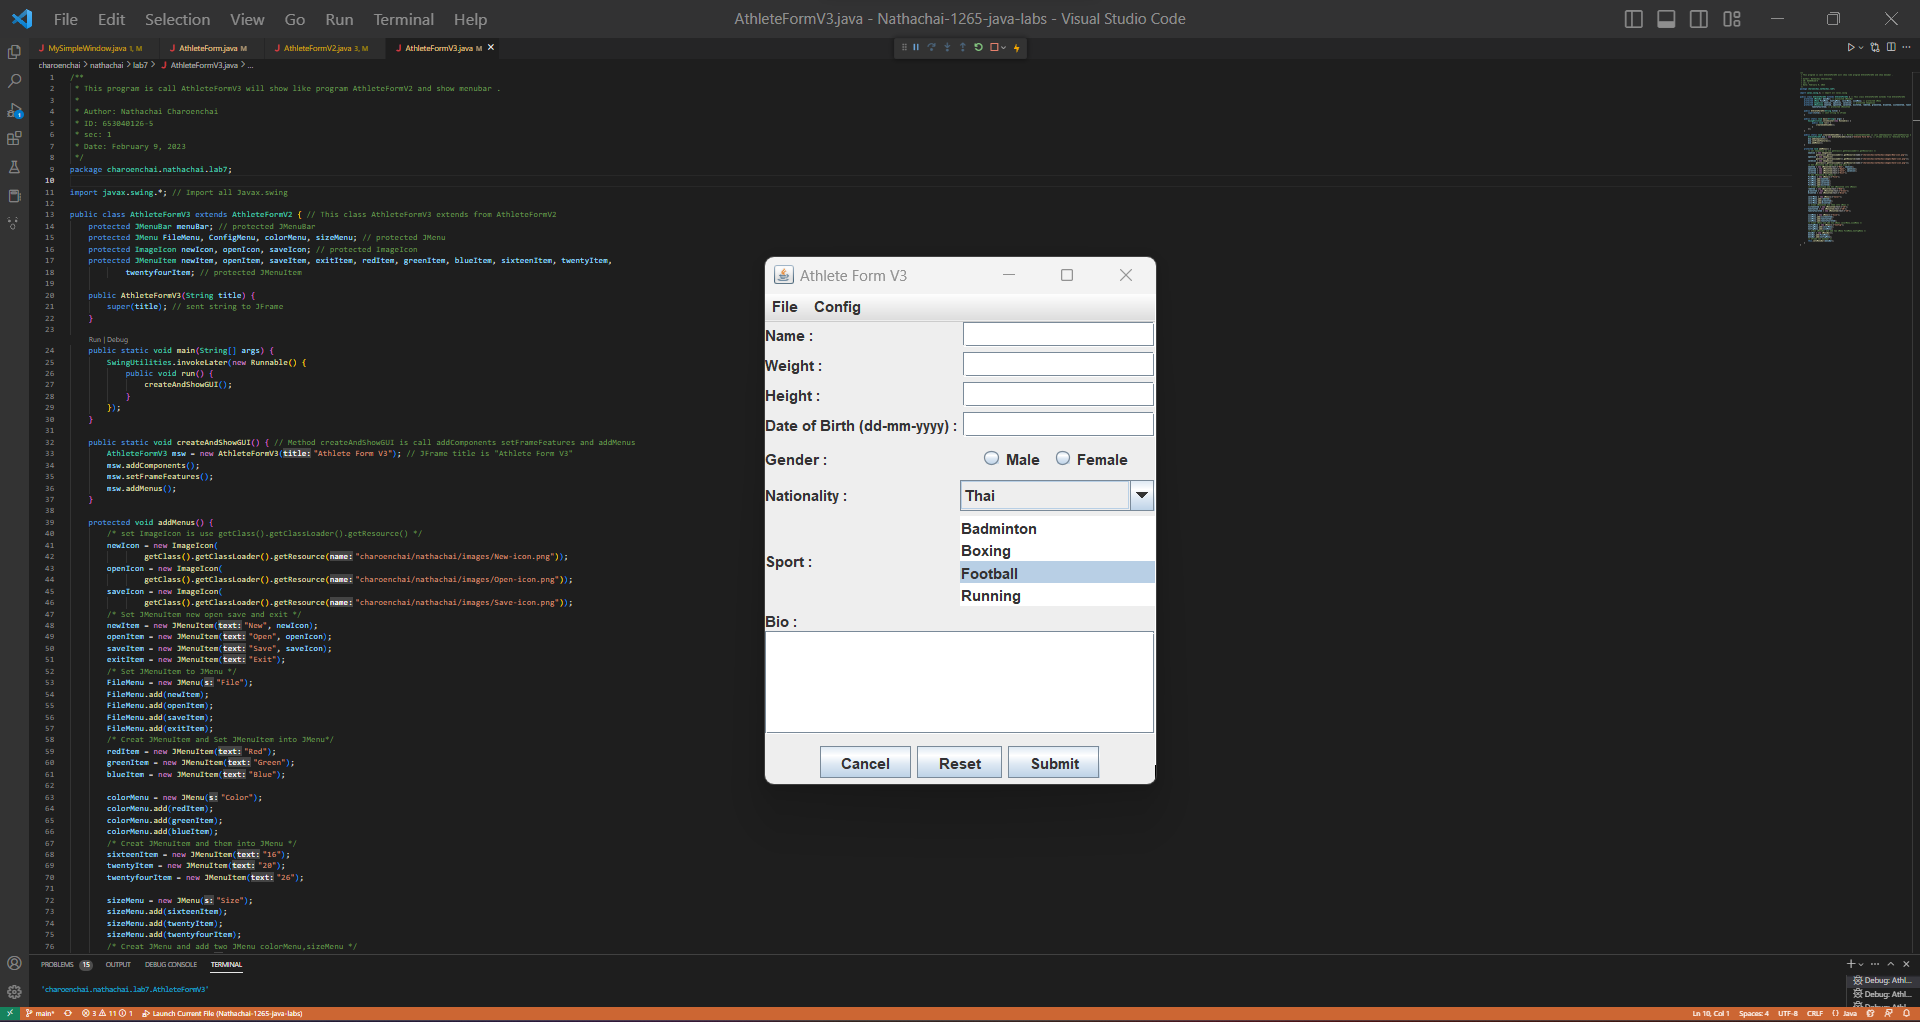
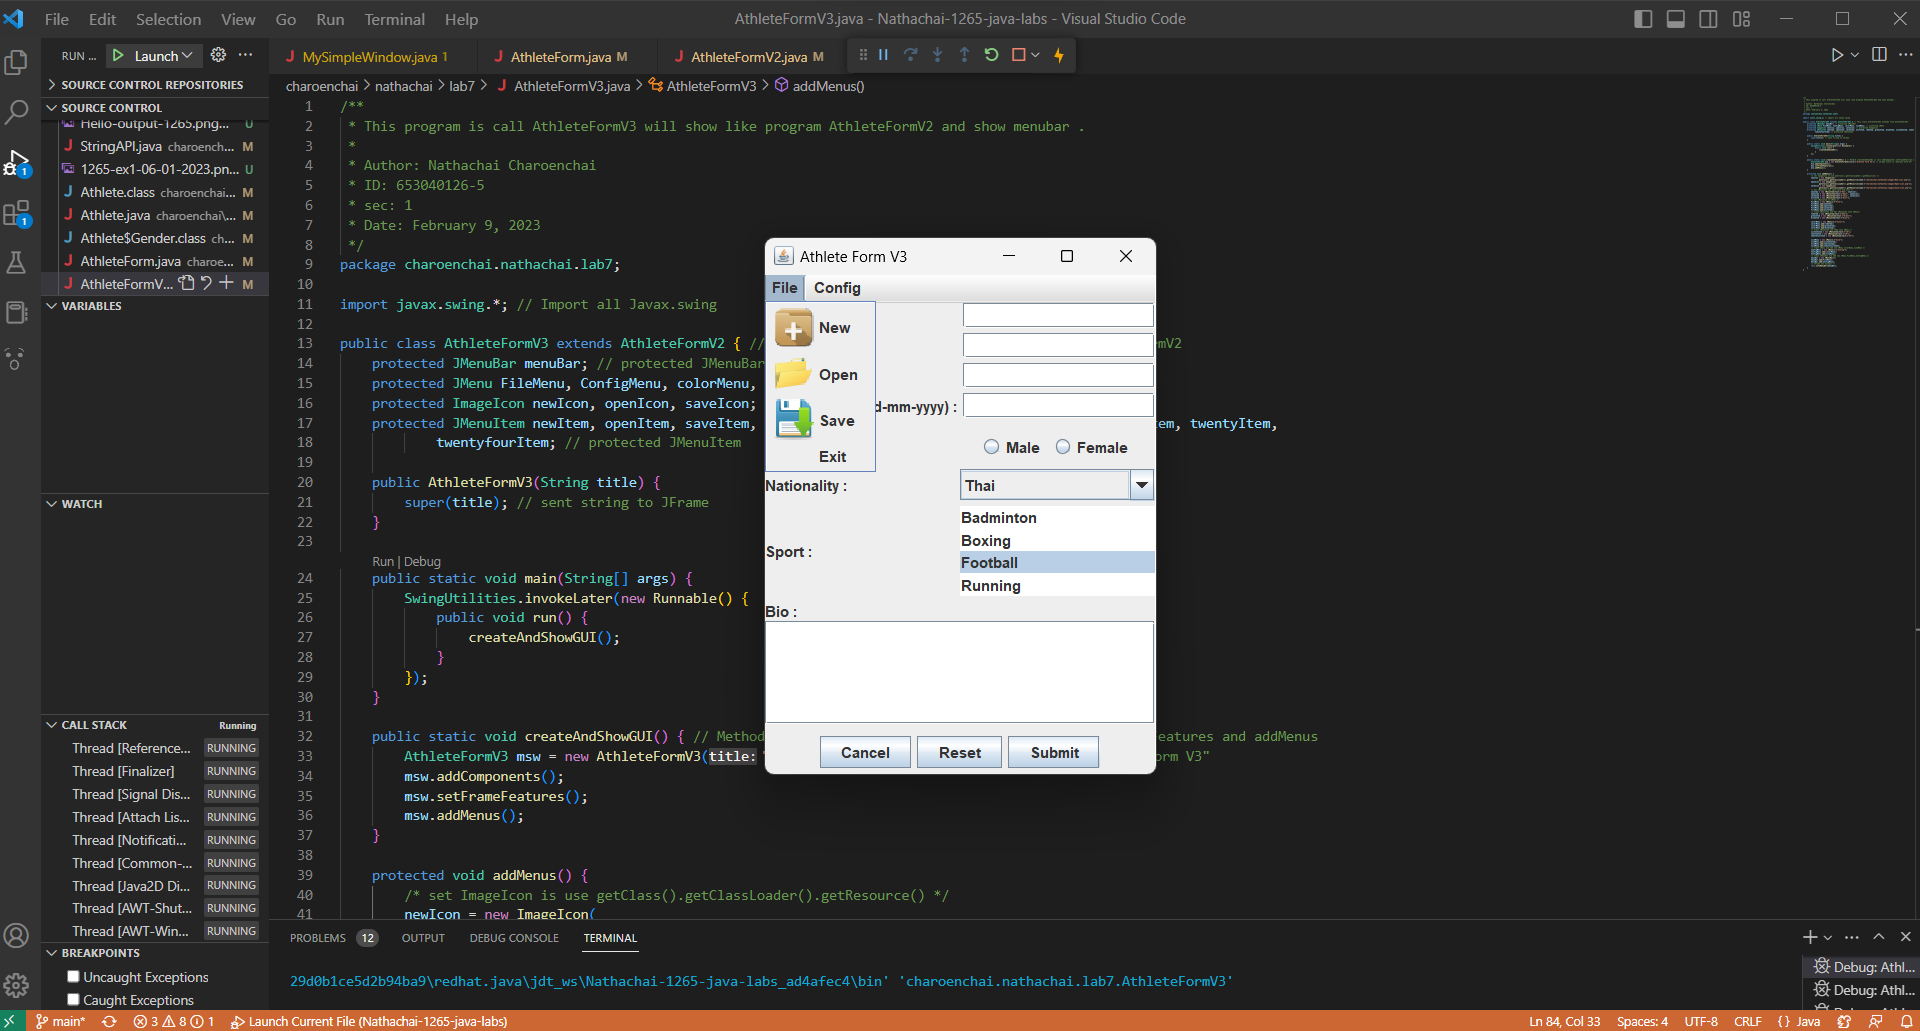
Update lab7 9/2/2566

diff --git a/charoenchai/nathachai/lab7/AthleteFormV2.java b/charoenchai/nathachai/lab7/AthleteFormV2.java
@@ -16,7 +16,7 @@ public class AthleteFormV2 extends AthleteForm { // This class AthleteFormV2 ext
     protected JLabel nationalityLabel, sportLabel, bioLabel; // protected JLabel
     protected JPanel sportPanel, nationPanel, bioPanel, southUIPanel; // protected JPanel
     protected JComboBox<String> nationComboBox; // protected JComboBox<String>
-    protected JList sportList; // protected JList
+    protected JList<String> sportList; // protected JList
     protected JScrollPane bioscroll; // protected JScrollPane
     protected String[] sportName = { "Badminton", "Boxing", "Football", "Running" }; // protected list String[]
 
@@ -59,7 +59,7 @@ public class AthleteFormV2 extends AthleteForm { // This class AthleteFormV2 ext
 
         /* sport label and list */
         sportLabel = new JLabel("Sport :"); // JLabel sport
-        sportList = new JList(sportName); // list sport
+        sportList = new JList<String>(sportName); // list sport
         sportList.setSelectedIndex(2); // set select position of sportList
         /* Sport Panel */
         sportPanel = new JPanel(new GridLayout(1, 2)); // JPanel in GridLayout 1 rows 2 clos

diff --git a/charoenchai/nathachai/lab7/AthleteForm.java b/charoenchai/nathachai/lab7/AthleteForm.java
@@ -82,13 +82,13 @@ public class AthleteForm extends MySimpleWindow { // This class MySimpleWindown 
         genderPannel.add(labelGender);
         genderPannel.add(genderButtonPanel);
 
-        centerUIPanel = new JPanel(new BorderLayout()); // JPanel in BorderLayout
+        centerUIPanel = new JPanel(new BorderLayout(0,3)); // JPanel in BorderLayout
         centerUIPanel.add(TandLpanel, BorderLayout.NORTH); // set TandLpanel to NORTH in centerUIPanel
-        centerUIPanel.add(genderPannel, BorderLayout.CENTER); // set genderPannel to CENTER in centerUIPanel
+        centerUIPanel.add(genderPannel, BorderLayout.SOUTH); // set genderPannel to CENTER in centerUIPanel
 
         // - userIUpanel
-        userIUpanel = new JPanel(new BorderLayout());
-        userIUpanel.add(centerUIPanel, BorderLayout.CENTER); // set genderPannel to CENTER in centerUIPanel
+        userIUpanel = new JPanel(new BorderLayout(0,12));
+        userIUpanel.add(centerUIPanel, BorderLayout.NORTH); // set genderPannel to CENTER in centerUIPanel
 
         // - main panel5
         mainPanel = new JPanel(new BorderLayout(0, 4));
